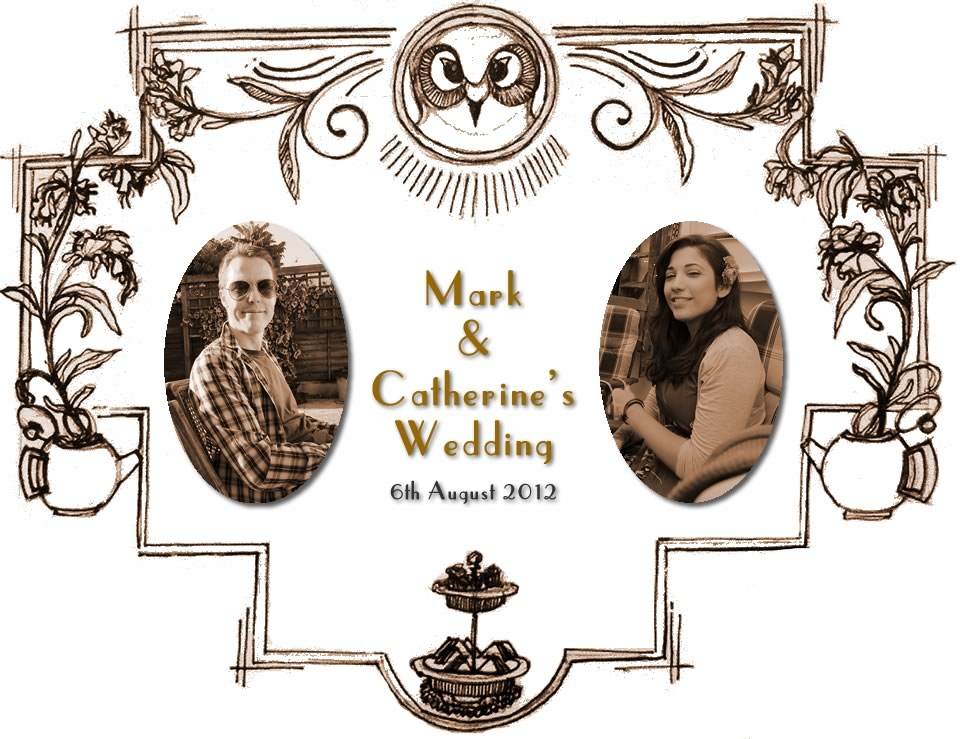
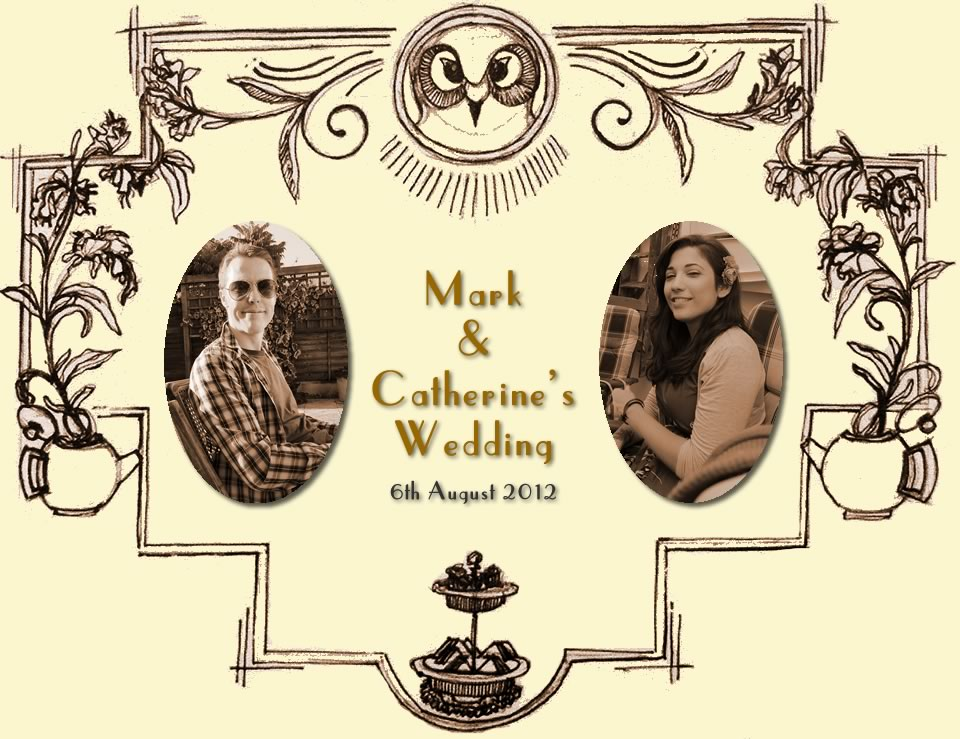
Remove split colour

diff --git a/index.html b/index.html
@@ -29,54 +29,52 @@
     		</div>
         <![endif]-->
         <header class="dimension centralalign"></header>
-		<div class="split">
-			<div class="dimension centralalign">
-				<h1>Location</h1>
-				<div id="map"></div>
-				<hr>
-				<h2>Dress Code</h2>
-				<p>Smart day wear with a vintage hint.</p>
-				<hr>
-				<h2>Gifts</h2>
-				<p>Although your presence on the day is all we really wish for, if you were considering giving a gift then<br>we would appreciate money which would help towards our 3 week honeymoon trip to America.</p>
-				<hr>
-				<h2>Contact</h2>
-				<p>If you need to get in contact with us for any reason then you can reach us at the following locations:</p>
-				<ul class="centralalign contact">
-					<li><a href="http://www.facebook.com/barramac">http://www.facebook.com/barramac</a></li>
-					<li><a href="http://twitter.com/integralist">http://twitter.com/integralist</a></li>
-					<li><a href="http://twitter.com/barracat">http://twitter.com/barracat</a></li>
-					<li><a href="mailto:macandcat@gmail.com">macandcat@gmail.com</a></li>
-				</ul>
-                <hr>
-                <h2>Confirm (RSVP) by 30th April 2012</h2>
-                <p>You can confirm your RSVP in a few different ways:</p>
-                <ol class="centralalign RSVP">
-                    <li>Phone/text message</li>
-                    <li>Email/Facebook/Twitter</li>
-                    <li>Form below</li>
-                </ol>
-                <p>If you choose to fill in the form below to confirm your RSVP then remember<br>that you will receive an email asking you to click on a link to double confirm your RSVP.<br>You'll need to click the link in the email otherwise we'll not be notified.</p>
-                <form action="http://integralist.createsend.com/t/j/s/bijp/" method="post" id="subForm">
+        <div class="dimension centralalign">
+			<h1>Location</h1>
+			<div id="map"></div>
+			<hr>
+			<h2>Dress Code</h2>
+			<p>Smart day wear with a vintage hint.</p>
+			<hr>
+			<h2>Gifts</h2>
+			<p>Although your presence on the day is all we really wish for, if you were considering giving a gift then<br>we would appreciate money which would help towards our 3 week honeymoon trip to America.</p>
+			<hr>
+			<h2>Contact</h2>
+			<p>If you need to get in contact with us for any reason then you can reach us at the following locations:</p>
+			<ul class="centralalign contact">
+				<li><a href="http://www.facebook.com/barramac">http://www.facebook.com/barramac</a></li>
+				<li><a href="http://twitter.com/integralist">http://twitter.com/integralist</a></li>
+				<li><a href="http://twitter.com/barracat">http://twitter.com/barracat</a></li>
+				<li><a href="mailto:macandcat@gmail.com">macandcat@gmail.com</a></li>
+			</ul>
+            <hr>
+            <h2>Confirm (RSVP) by 30th April 2012</h2>
+            <p>You can confirm your RSVP in a few different ways:</p>
+            <ol class="centralalign RSVP">
+                <li>Phone/text message</li>
+                <li>Email/Facebook/Twitter</li>
+                <li>Form below</li>
+            </ol>
+            <p>If you choose to fill in the form below to confirm your RSVP then remember<br>that you will receive an email asking you to click on a link to double confirm your RSVP.<br>You'll need to click the link in the email otherwise we'll not be notified.</p>
+            <form action="http://integralist.createsend.com/t/j/s/bijp/" method="post" id="subForm">
+                <div>
+                    <span class="label warning"><label for="name">Name:</label></span>
+                    <span><input type="text" name="cm-name" id="name" size="25" /></span>
+                </div>
+                <div>
+                    <span class="label warning"><label for="bijp-bijp">Email Address:</label></span>
+                    <span><input type="text" name="cm-bijp-bijp" id="bijp-bijp" size="25" /></span>
+                </div>
+                <div>                
                     <div>
-                        <span class="label warning"><label for="name">Name:</label></span>
-                        <span><input type="text" name="cm-name" id="name" size="25" /></span>
+                        <span class="label warning"><label for="Telephone">Telephone:</label></span>
+                        <span><input type="text" name="cm-f-jdkdl" id="Telephone" size="25" /></span>
                     </div>
-                    <div>
-                        <span class="label warning"><label for="bijp-bijp">Email Address:</label></span>
-                        <span><input type="text" name="cm-bijp-bijp" id="bijp-bijp" size="25" /></span>
-                    </div>
-                    <div>                
-                        <div>
-                            <span class="label warning"><label for="Telephone">Telephone:</label></span>
-                            <span><input type="text" name="cm-f-jdkdl" id="Telephone" size="25" /></span>
-                        </div>
-                    </div>
-                    <div>
-                        <span class="button"><input type="submit" value="Submit" /></span>
-                    </div>
-                </form>
-			</div>
+                </div>
+                <div>
+                    <span class="button"><input type="submit" value="Submit" /></span>
+                </div>
+            </form>
 		</div>
 		<script data-main="Assets/Scripts/main" src="Assets/Scripts/require.js"></script>
 		<script>

diff --git a/Assets/Styles/structure.css b/Assets/Styles/structure.css
@@ -1,4 +1,5 @@
 body {
+    background-color: #FCF6CF;
 	margin-top: 2em;
 }
 
@@ -21,12 +22,6 @@ hr {
 
 .map {
 	margin: 1em 0;
-}
-
-.split {
-	background-color: #FCF6CF;
-	margin-top: 3em;
-	padding-bottom: 4em;
 }
 
 #map {
